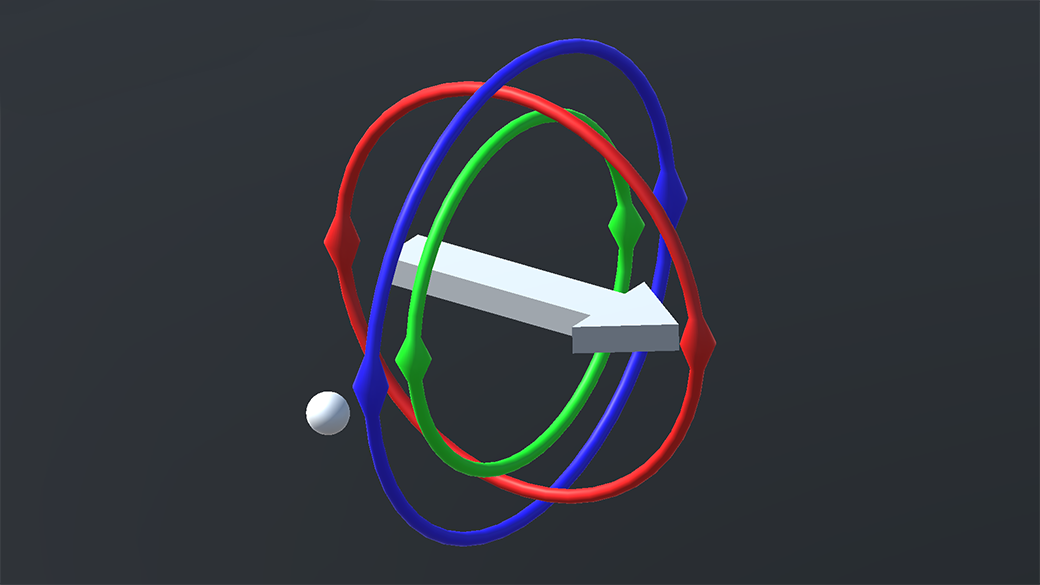
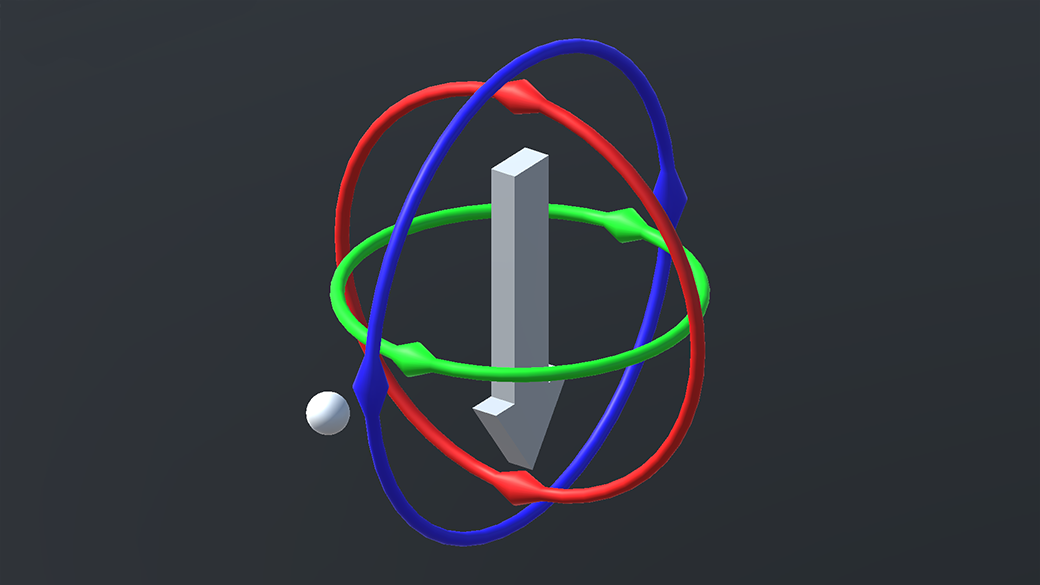
Cambios en imagen y caption

Changed region(s): [[0.3077, 0.1231, 0.7077, 0.8615]]

diff --git a/representaciones.tex b/representaciones.tex
@@ -677,7 +677,7 @@ da el bloqueo de cardán.
 \begin{figure}[ht!]
 \centering
 \includegraphics[width=90mm]{./img/cardanflecha.png}
-\caption{Bloqueo del cardán con una figura no simétrica \label{figcardan}}
+\caption{Escena inicial: Rotores y figura \label{figcardan}}
 \end{figure}
 
 Las siguientes líneas de código son parte del programa encargado de reconocer la
@@ -737,7 +737,7 @@ correspondiente a la interpolación esférica, una vez activada, y hasta su fina
   Aluffi, Paolo (2007),
   Algebra: Chapter 0,
   Graduate Studies in Mathematics. American Mathematical Society
-  
+
 \bibitem{unity}
   Unity Game Engine,
   Sitio Oficial,
